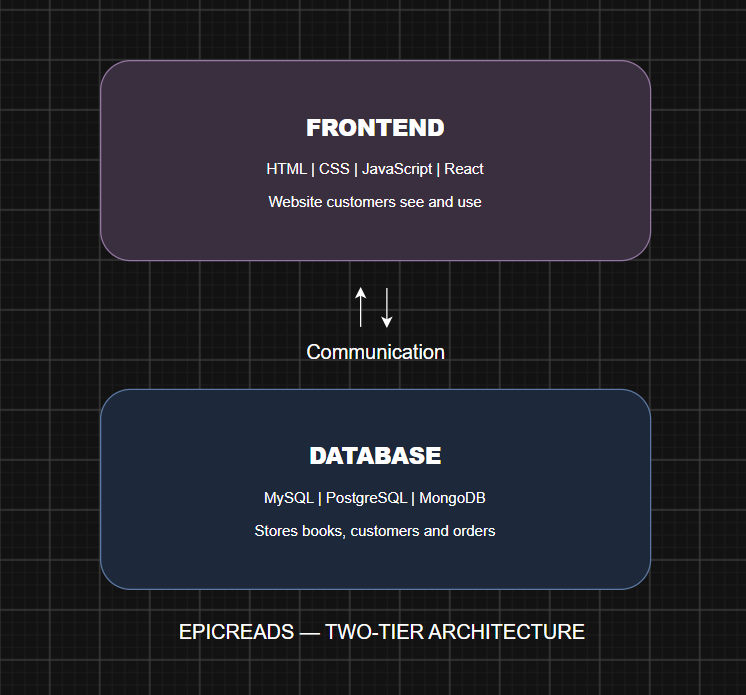
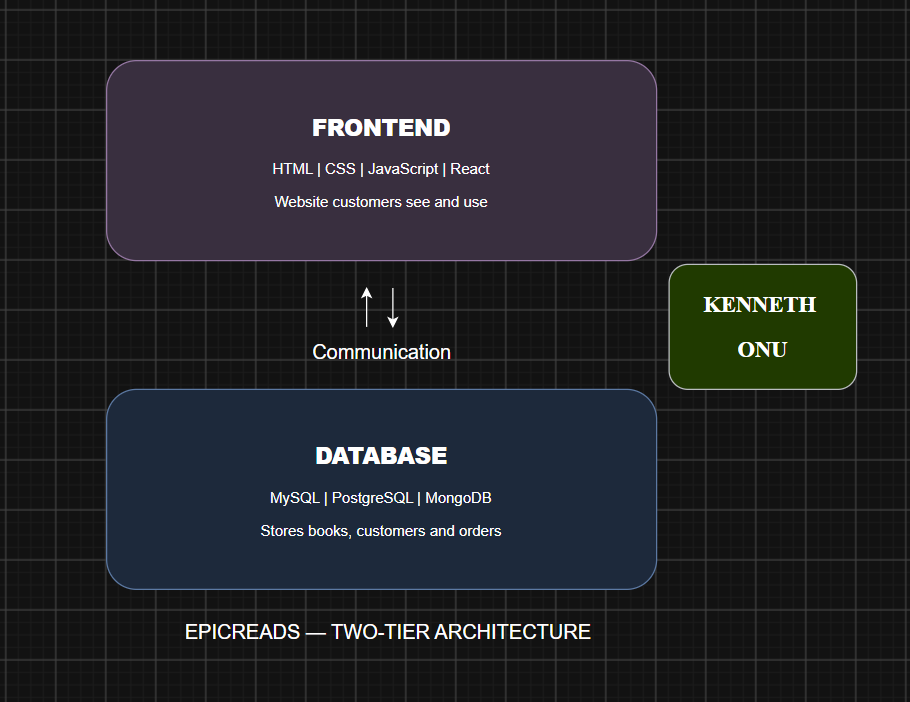
Update Task 3 Screenshots with usernames

diff --git a/week-00-internet-and-networking/assignment-01-internet-and-networking.md b/week-00-internet-and-networking/assignment-01-internet-and-networking.md
@@ -94,8 +94,8 @@ EpicReads bookstore has two application versions:
 
 Save your diagram image in the `screenshots` folder and update the file name below.
 
-![Application Architecture Diagram](screenshots/two-tier-architecture.png)
-![Application Architecture Diagram](screenshots/three-tier-architecture.png)
+![Application Architecture Diagram](screenshots/TWO-TIER-ARCHITECTURE.png)
+![Application Architecture Diagram](screenshots/THREE-TIER-ARCHITECTURE.png)
 
 ---
 
